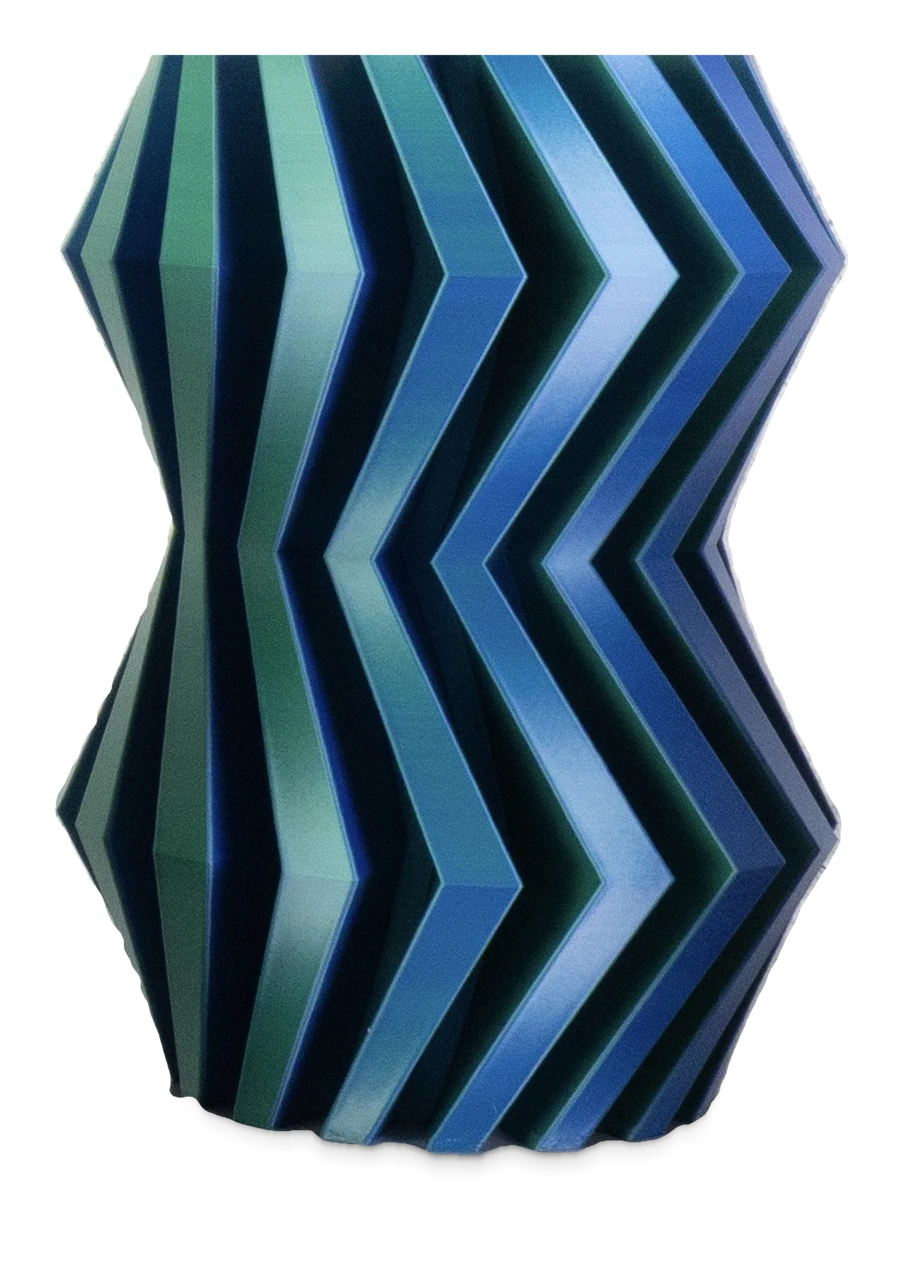
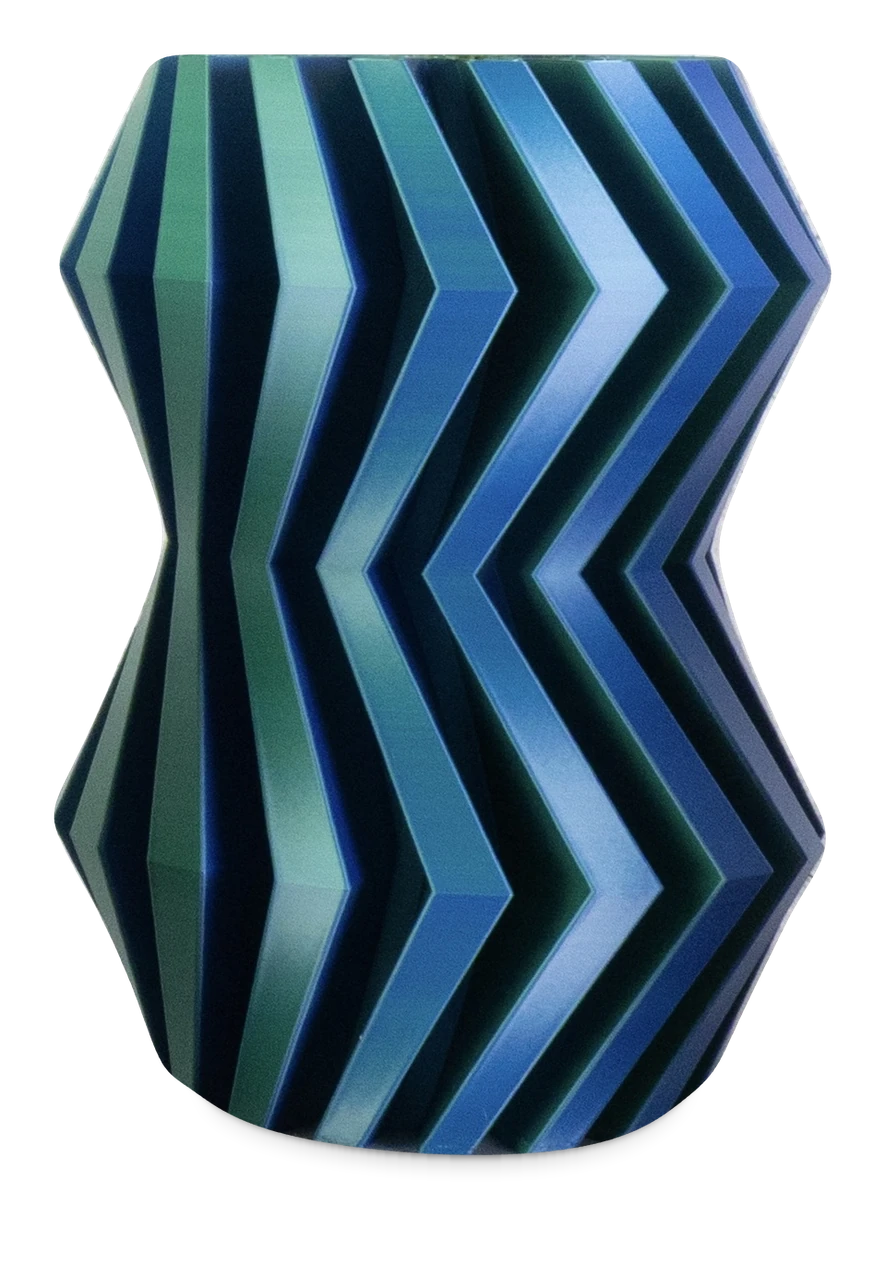
Vulcano Light: nuovo ordine galleria; Zig: ritaglio liscio

diff --git a/prodotto-vulcano-light.html b/prodotto-vulcano-light.html
@@ -540,13 +540,13 @@
      ritagliano quadrate prima di caricarle.
      ========================================================================= */
   var FOTO = [
-    { src:'images/vulcano-light-scontornato.webp?v=1', alt:'Vulcano Light accesa, vista frontale' },
+    { src:'images/vulcano-light-vetrina.webp?v=1', alt:'Vulcano Light accesa, vista frontale' },
+    { src:'images/Vulcano light/web/vulcano-light-salotto.jpg', alt:'Vulcano Light accesa nel salotto, di sera' },
+    { video:'images/Vulcano light/web/vulcano-light-video.mp4', poster:'images/Vulcano light/web/vulcano-light-video-poster.jpg', alt:'Video di Vulcano Light accesa' },
     { src:'images/Vulcano light/web/vulcano-light-1430.jpg', alt:'Vulcano Light accesa accanto a un vaso, in una stanza in penombra' },
     { src:'images/Vulcano light/web/vulcano-light-1415-quadrata.jpg', alt:'Vulcano Light accesa nella penombra' },
     { src:'images/Vulcano light/web/vulcano-light-1433-quadrata.jpg', alt:'Vulcano Light, dettaglio della base' },
-    { src:'images/Vulcano light/web/vulcano-light-salotto.jpg', alt:'Vulcano Light accesa nel salotto, di sera' },
-    { src:'images/Vulcano light/web/vulcano-light-tavolo.jpg', alt:'Vulcano Light accesa su un tavolo bianco' },
-    { video:'images/Vulcano light/web/vulcano-light-video.mp4', poster:'images/Vulcano light/web/vulcano-light-video-poster.jpg', alt:'Video di Vulcano Light accesa' }
+    { src:'images/Vulcano light/web/vulcano-light-tavolo.jpg', alt:'Vulcano Light accesa su un tavolo bianco' }
   ];
   </script>
 

diff --git a/tutti-i-design.html b/tutti-i-design.html
@@ -133,7 +133,7 @@
 
         <a href="prodotto-zig.html" class="product-card reveal">
           <div class="card-img card-img--flat" style="display:flex; align-items:flex-end; justify-content:center; padding:12px 12px 0;">
-            <img src="images/zig-blu-scontornato.webp?v=3" alt="Zig" style="height:61.0%; width:auto; max-width:100%; object-fit:contain; object-position:center bottom; transform:translateY(calc(9.33% - 16px));">
+            <img src="images/zig-blu-scontornato.webp?v=4" alt="Zig" style="height:61.0%; width:auto; max-width:100%; object-fit:contain; object-position:center bottom; transform:translateY(calc(9.33% - 16px));">
           </div>
           <p class="product-card-title">Zig</p>
           <span class="pc-prezzo" data-prezzo="zig-s"></span>
